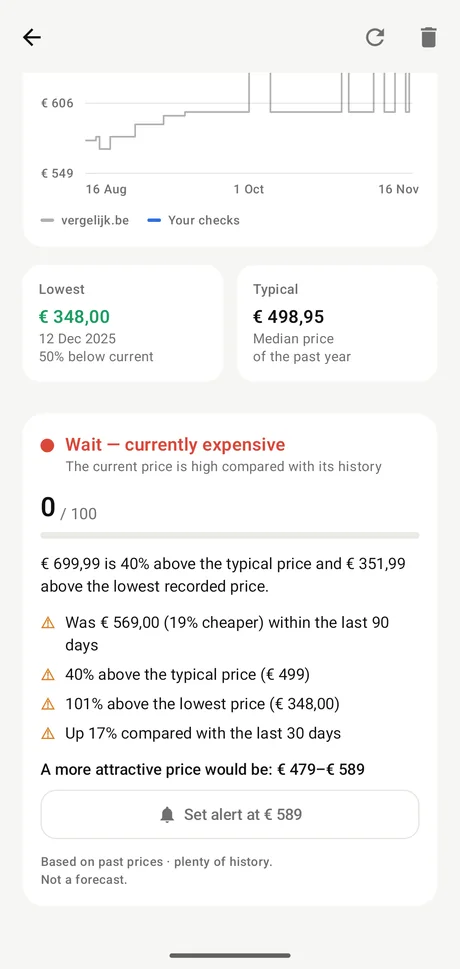
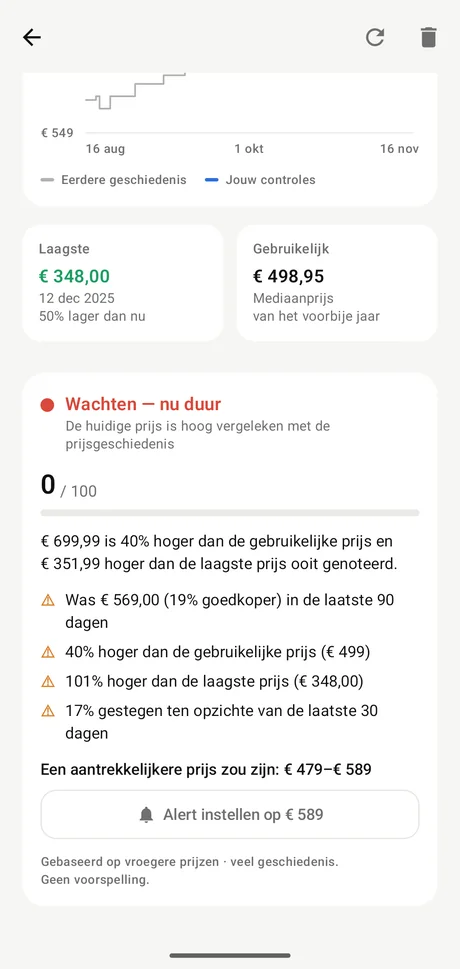
Download page: Dutch screenshots and Dutch advice names, as the app now speaks Dutch
Claude-Session: https://claude.ai/code/session_014yLLCYMP62sZVg1WxFivAn

diff --git a/index.html b/index.html
@@ -98,8 +98,8 @@
   /* On a computer the four screens get the room to be readable: wider than the text column. */
   @media (min-width: 900px) { .shots { display: flex; width: min(980px, calc(100vw - 48px)); margin: 0 0 0 50%; transform: translateX(-50%); gap: 22px; } .phone { flex: 1 1 0; } }
   .legend { list-style: none; padding: 0; margin: 26px 0 0; display: grid; gap: 12px; }
-  .legend li { display: grid; grid-template-columns: 8.4rem 1fr; gap: 12px; align-items: baseline; margin: 0; font-size: 16px; }
-  .legend strong { display: flex; align-items: center; gap: 8px; white-space: nowrap; }
+  .legend li { display: grid; grid-template-columns: 9.6rem 1fr; gap: 12px; align-items: baseline; margin: 0; font-size: 16px; }
+  .legend strong { display: flex; align-items: center; gap: 8px; }
   .legend i { flex: none; width: 9px; height: 9px; border-radius: 50%; display: inline-block; }
   .legend span { color: var(--muted); }
 
@@ -161,14 +161,14 @@
     <figure class="phone"><img src="screens/advice.webp" alt="Productscherm met de goedkoopste winkel" width="460" height="948" loading="lazy"><figcaption>De goedkoopste winkel</figcaption></figure>
     <figure class="phone"><img src="screens/details.webp" alt="Advies met uitleg en prijsgeschiedenis" width="460" height="948" loading="lazy"><figcaption>Het advies, met uitleg</figcaption></figure>
   </div>
-  <p class="note">De app is voorlopig in het Engels. Dit betekent elk advies:</p>
+  <p class="note">Dit betekent elk advies:</p>
 
   <ul class="legend">
-    <li><strong><i style="background:var(--green)"></i>Buy now</strong><span>De prijs is historisch erg aantrekkelijk.</span></li>
-    <li><strong><i style="background:var(--blue)"></i>Consider</strong><span>Goed, maar niet uitzonderlijk.</span></li>
-    <li><strong><i style="background:var(--orange)"></i>Wait</strong><span>Niet bijzonder aantrekkelijk. Wacht, of zet een prijsalert.</span></li>
-    <li><strong><i style="background:var(--red)"></i>Expensive</strong><span>Hoog vergeleken met de prijsgeschiedenis.</span></li>
-    <li><strong><i style="background:var(--muted)"></i>No advice yet</strong><span>Te weinig geschiedenis om te oordelen. Franxit zegt dat eerlijk.</span></li>
+    <li><strong><i style="background:var(--green)"></i>Nu kopen</strong><span>De prijs is historisch erg aantrekkelijk.</span></li>
+    <li><strong><i style="background:var(--blue)"></i>Overwegen</strong><span>Goed, maar niet uitzonderlijk.</span></li>
+    <li><strong><i style="background:var(--orange)"></i>Wachten</strong><span>Niet bijzonder aantrekkelijk. Wacht, of zet een prijsalert.</span></li>
+    <li><strong><i style="background:var(--red)"></i>Duur</strong><span>Hoog vergeleken met de prijsgeschiedenis.</span></li>
+    <li><strong><i style="background:var(--muted)"></i>Nog geen advies</strong><span>Te weinig geschiedenis om te oordelen. Franxit zegt dat eerlijk.</span></li>
   </ul>
 
   <h2>Wat je er verder mee kan</h2>
@@ -203,7 +203,7 @@
   <h2>Vragen</h2>
   <details>
     <summary>Hoe betrouwbaar is het advies?</summary>
-    <p>Zo betrouwbaar als de prijsgeschiedenis. Heeft een product te weinig geschiedenis, dan zegt Franxit "No advice yet" in plaats van te gokken. Het kijkt achteruit en voorspelt niets.</p>
+    <p>Zo betrouwbaar als de prijsgeschiedenis. Heeft een product te weinig geschiedenis, dan zegt Franxit "Nog geen advies" in plaats van te gokken. Het kijkt achteruit en voorspelt niets.</p>
   </details>
   <details>
     <summary>Kost het iets?</summary>

diff --git a/privacy.html b/privacy.html
@@ -51,7 +51,7 @@
     <li><strong>Wat de maker ziet:</strong> alleen totalen per dag en per versie, zoals "16 november: 66". Niets wijst naar één toestel of één persoon.</li>
     <li><strong>Waar:</strong> in een Google Sheet van de maker, via Google Apps Script. Google ontvangt het verzoek en ziet daarbij je IP-adres, zoals bij elke internetverbinding. Dat IP-adres komt niet in het overzicht van de maker.</li>
     <li><strong>Delen:</strong> nooit. Ik verkoop of deel niets met derden.</li>
-    <li><strong>Uitzetten:</strong> in de app, via ⋮ → Usage statistics.</li>
+    <li><strong>Uitzetten:</strong> in de app, via ⋮ → Gebruiksstatistieken.</li>
   </ul>
 
   <h2>Deze website</h2>
